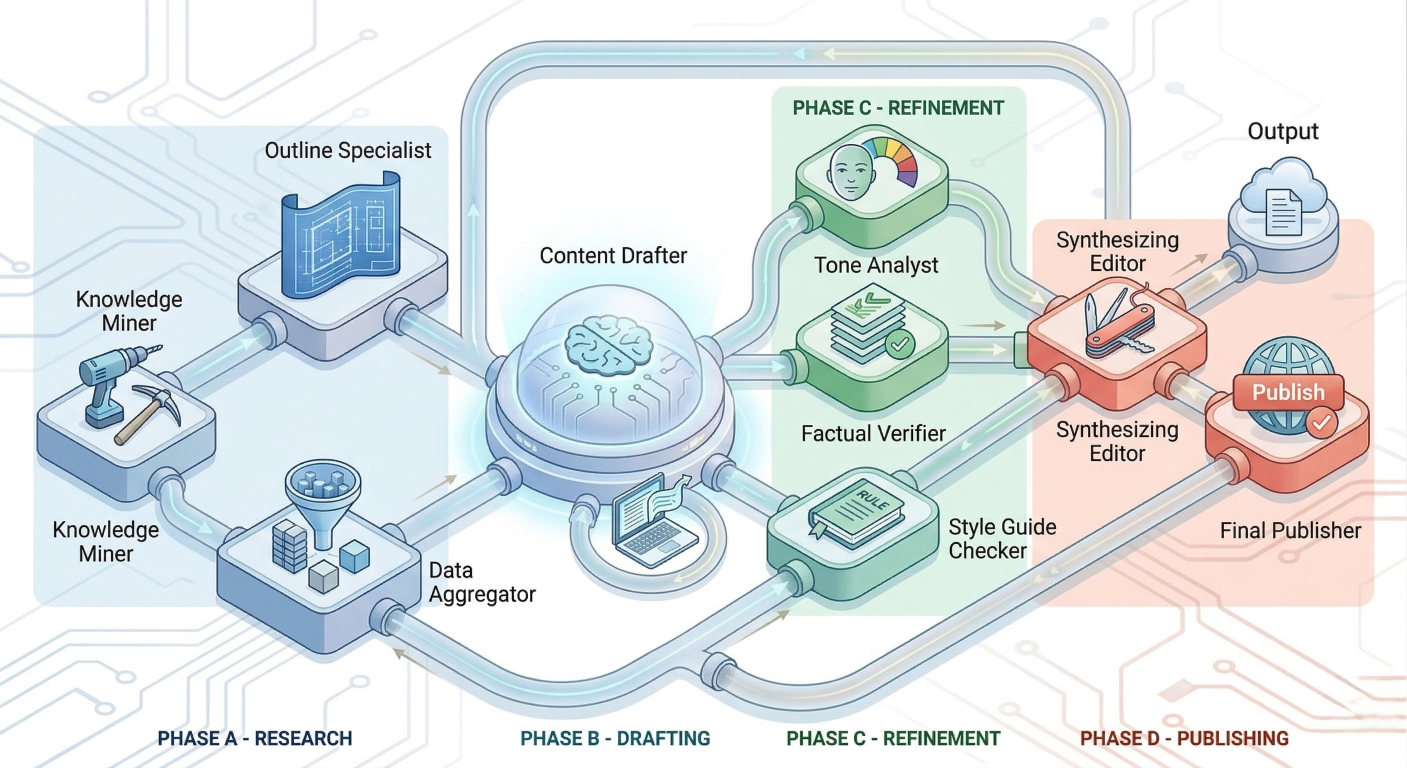
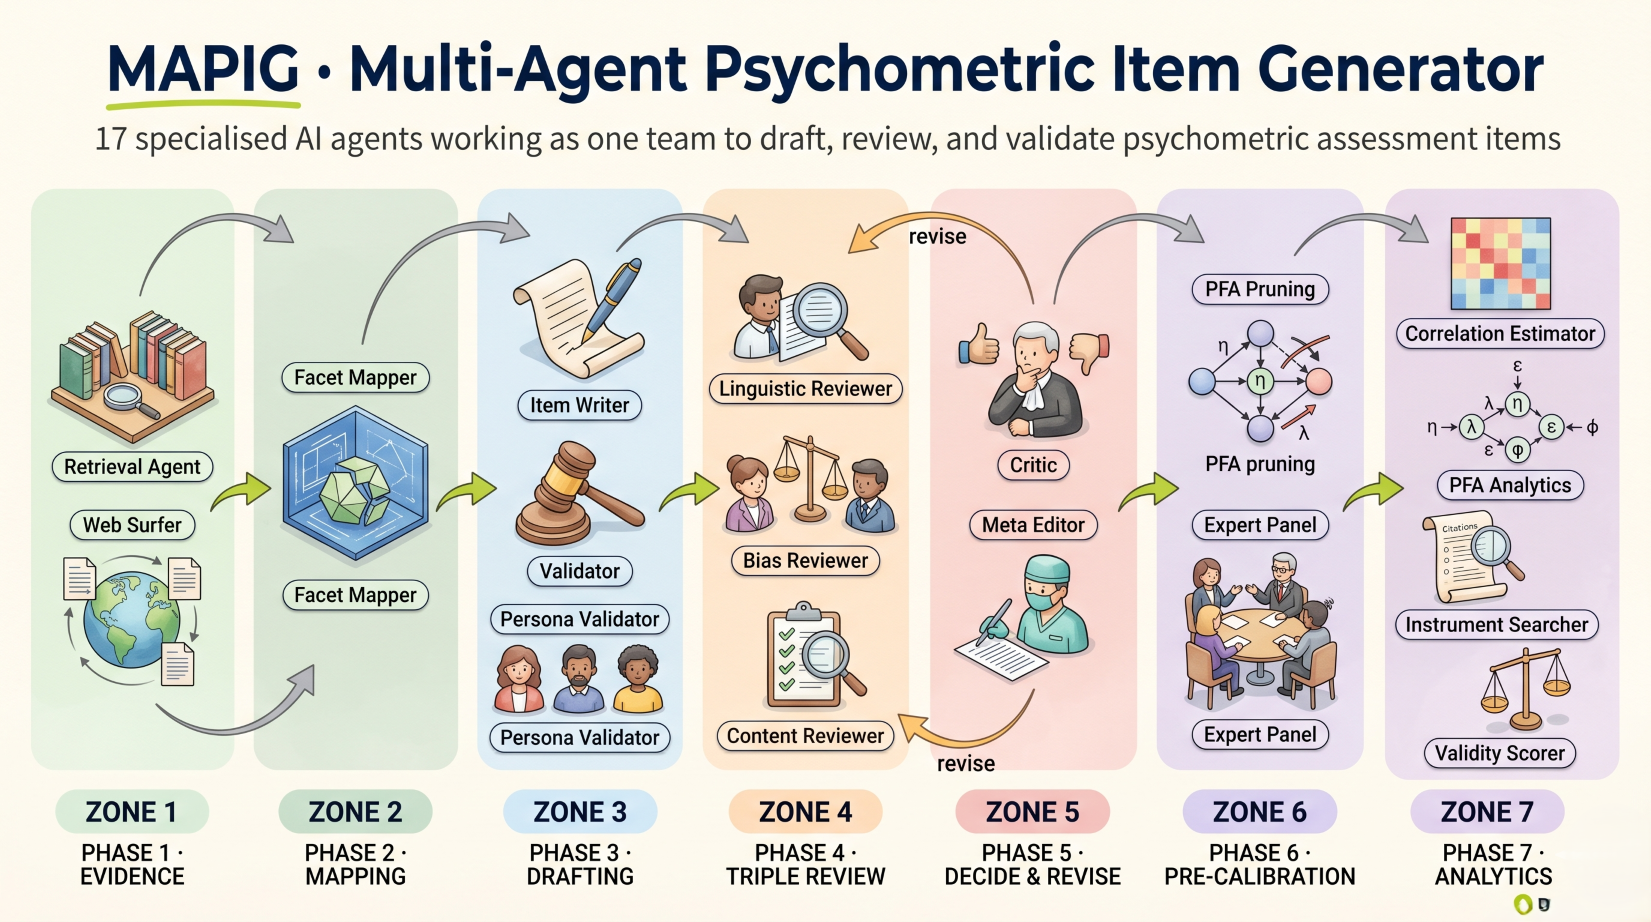
docs: refresh cover image, swap process flow PNG for SVG, and add alt text
- public/mapig_arc.png: updated cover image
- public/processflow.svg: replaces the old PNG (smaller, crisper, easier to maintain)
- README.md: improved alt text for both diagrams to reflect the current 17-agent system

diff --git a/README.md b/README.md
@@ -6,7 +6,7 @@ MAPIG is a research-grade web app that helps researchers, psychometricians, and 
 
 > **Important caveat**: MAPIG generates *candidate* items and *estimated* psychometric properties. It supports expert judgment but does **not** replace empirical piloting, factor analysis on respondent data, or formal validation studies. Use it as the first 80% of scale development, and your respondent data as the final 20%.
 
-![MAPIG architecture](./public/mapig_arc.png)
+![MAPIG system architecture — frontend, API, LangGraph orchestration with 17 agents, external services and data stores](./public/mapig_arc.png)
 
 ## Video tutorial
 
@@ -59,7 +59,7 @@ The output: candidate items + a structural report (factor recovery, reliability,
 
 ## Pipeline at a glance
 
-![MAPIG Process Flow](./public/processflow.png)
+![MAPIG pipeline flow — six phases from user input through evidence, mapping, drafting, validation, decide-and-revise, to pre-calibration analytics](./public/processflow.svg)
 
 ```
                     ┌─ Retrieval Agent (local sources)
